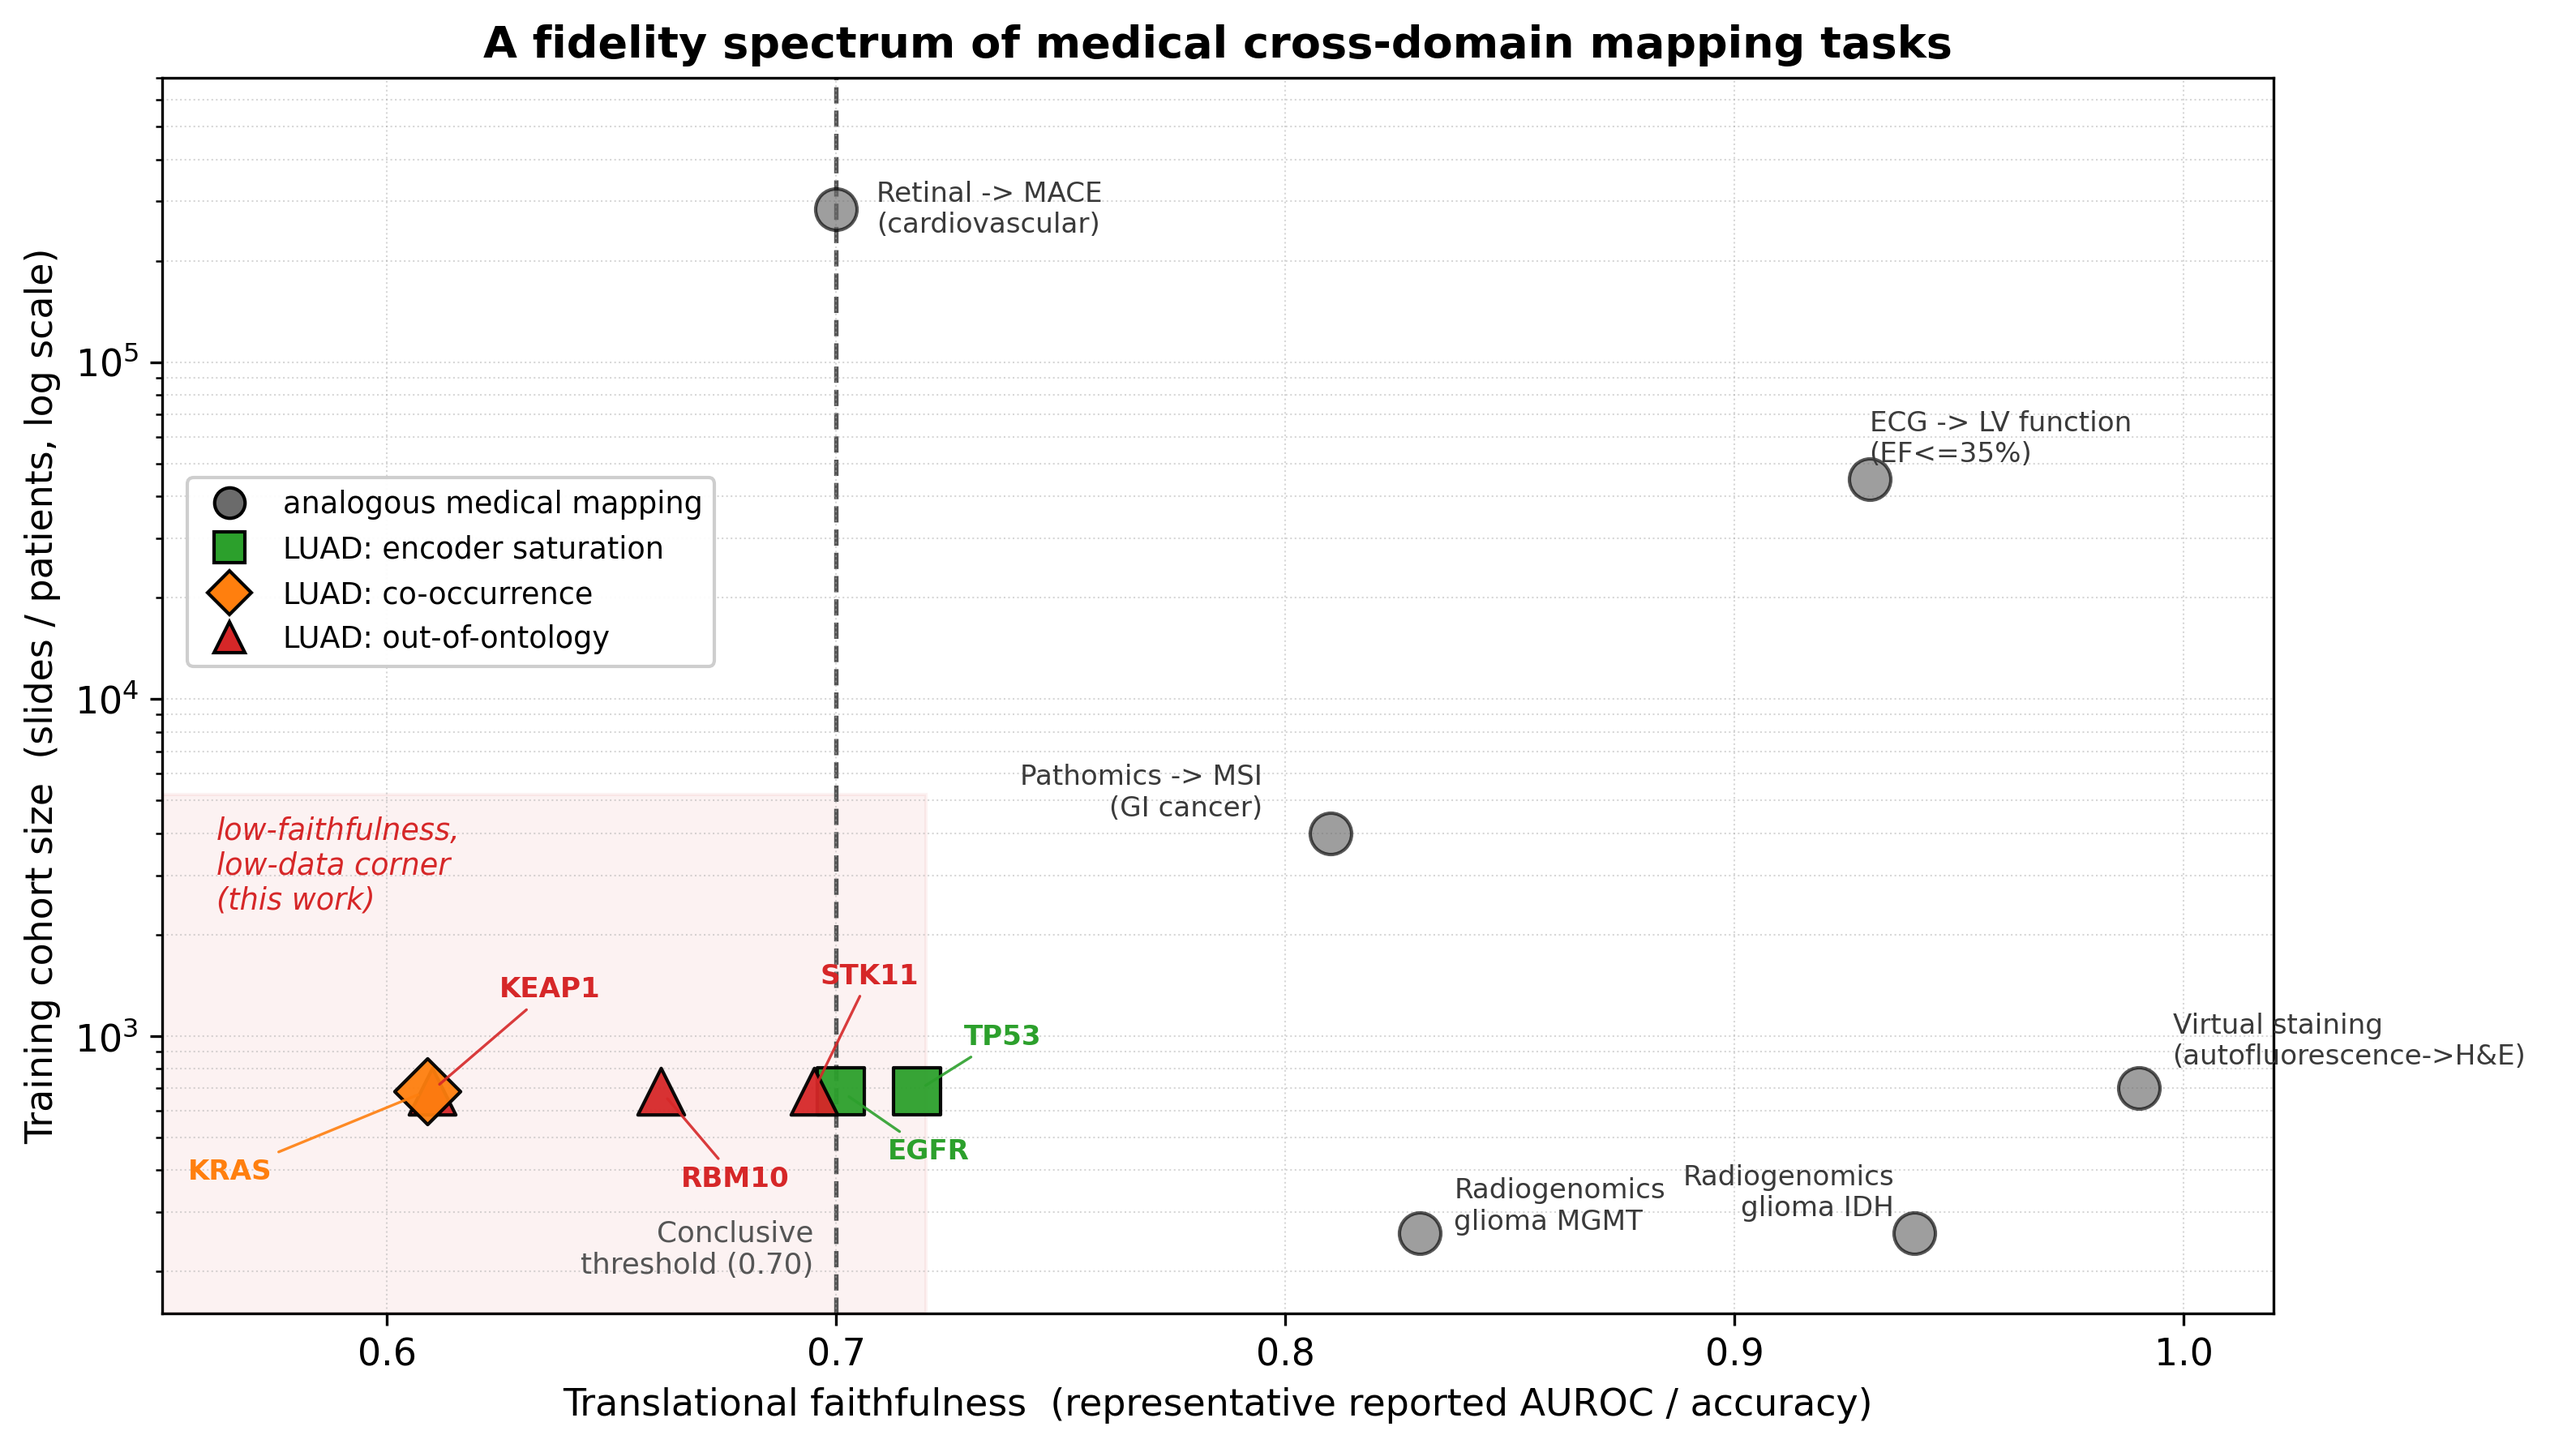
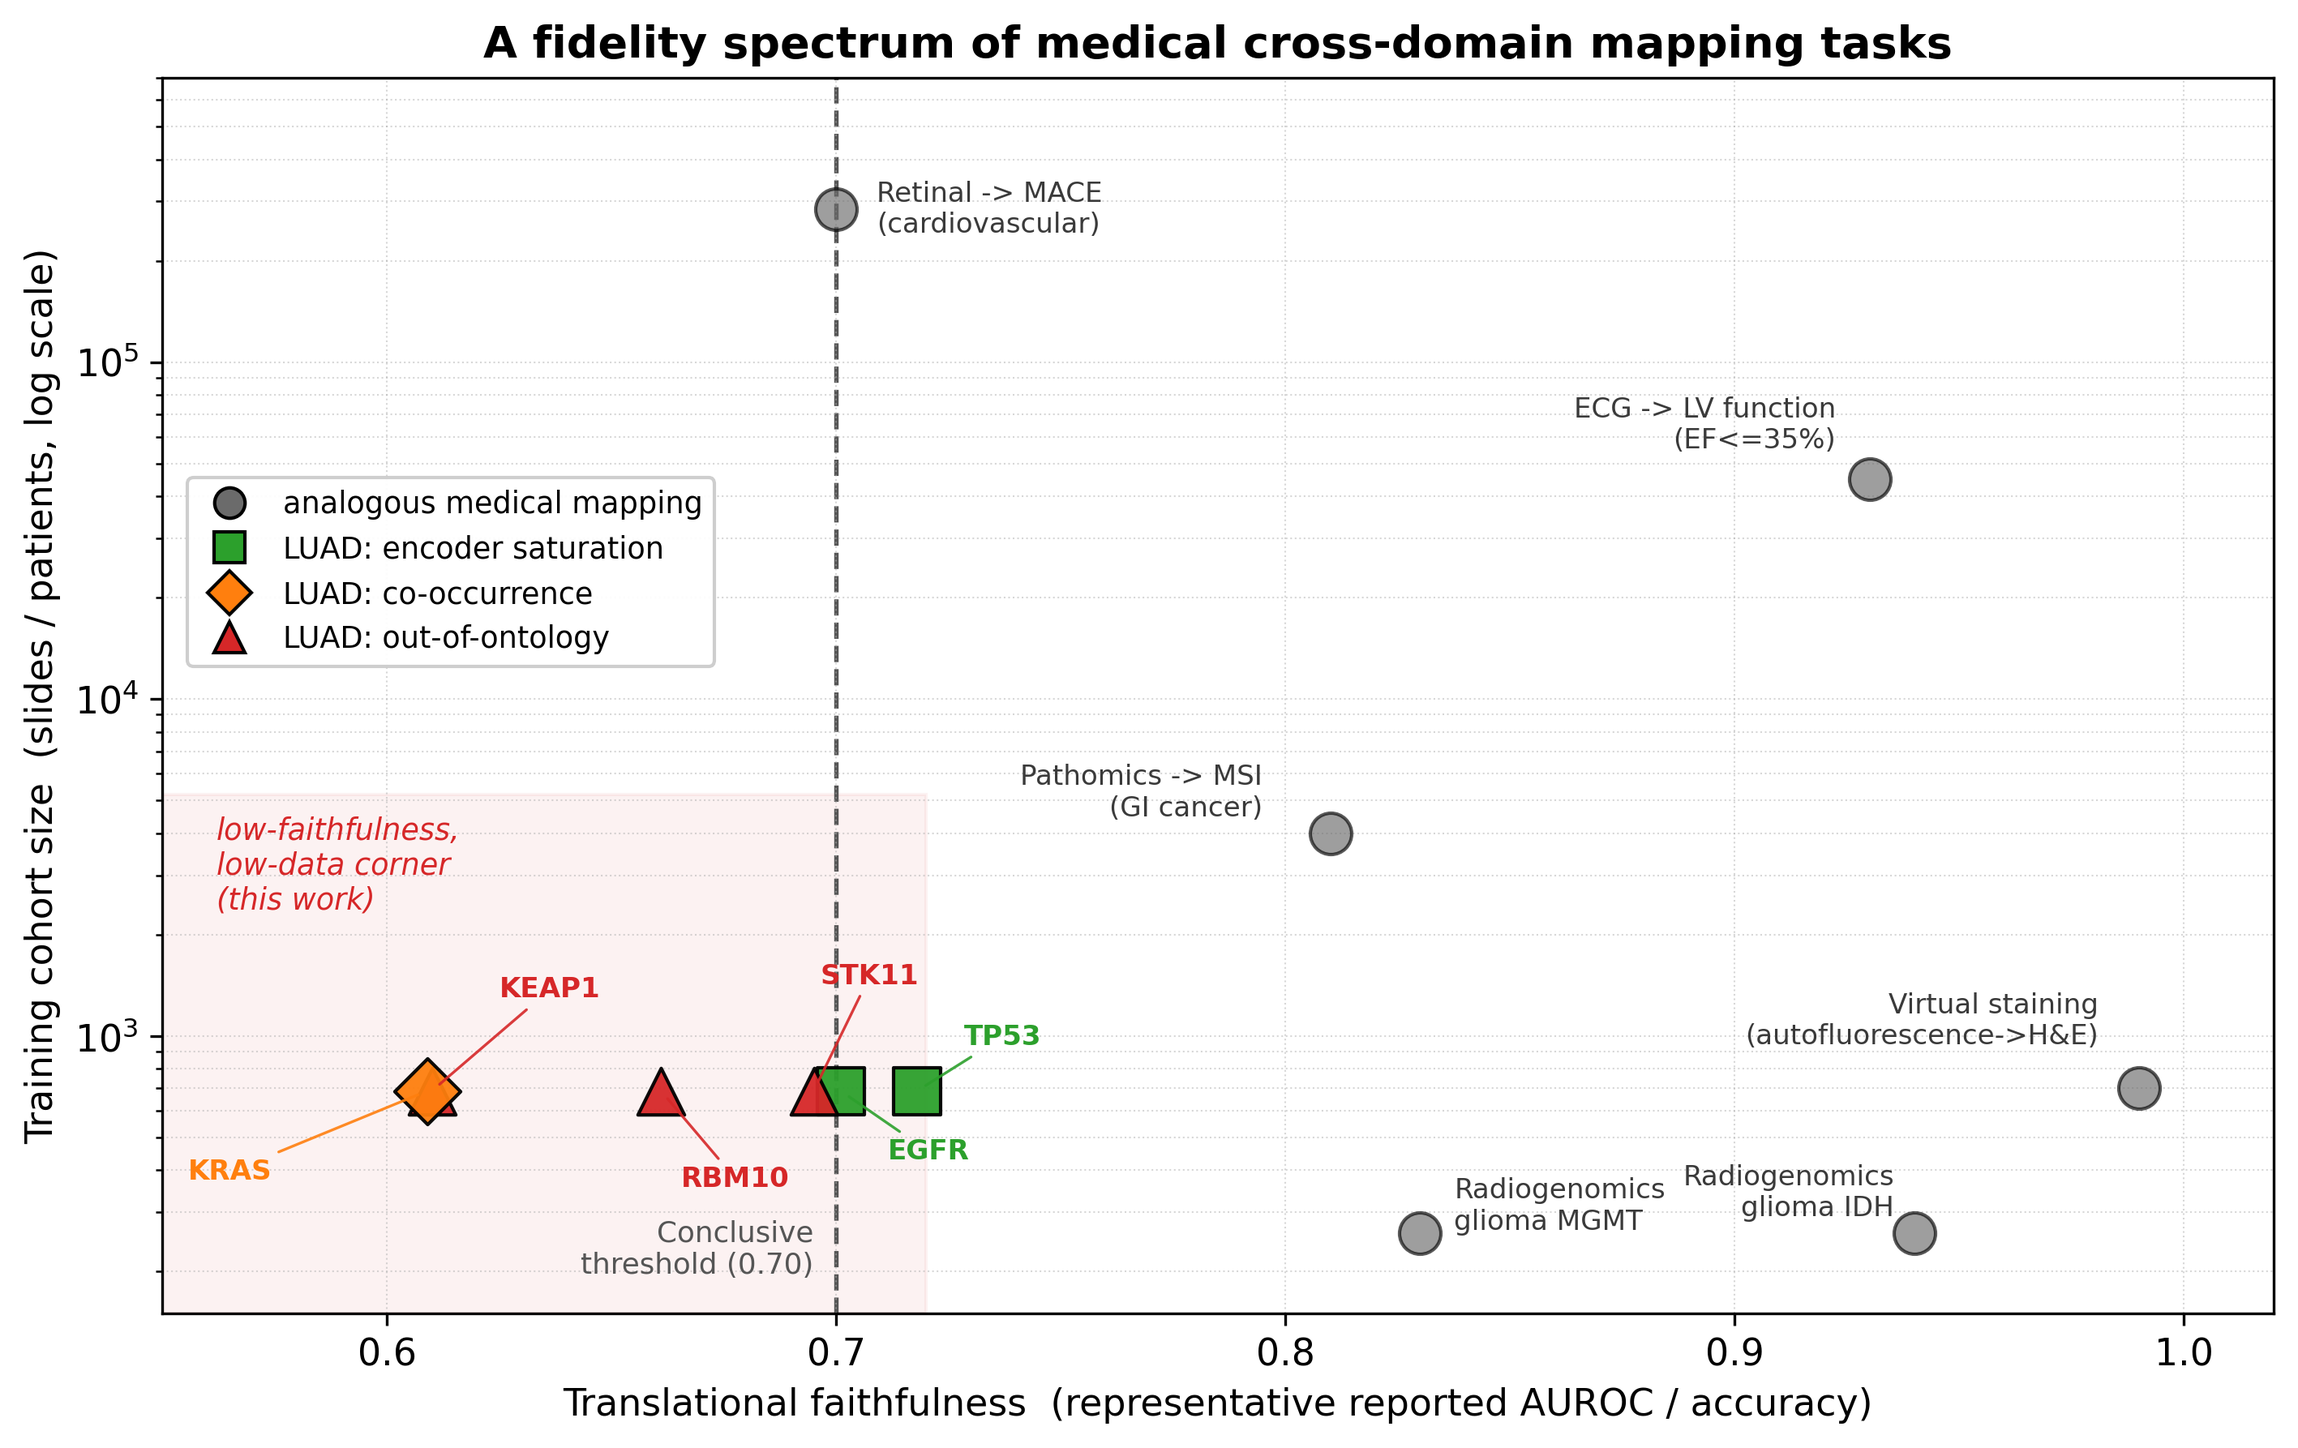
Fix fidelity-spectrum figure: keep Virtual staining / ECG labels inside plot bounds

diff --git a/figures/gen_domain_translation.py b/figures/gen_domain_translation.py
@@ -154,8 +154,8 @@ def fig_spectrum():
     # (label, representative AUROC/accuracy, training n, category)
     #   category: 'analogue' or one of the three LUAD regimes.
     pts = [
-        ("Virtual staining\n(autofluorescence->H&E)", 0.99, 700, "analogue", (10, 14)),
-        ("ECG -> LV function\n(EF<=35%)",             0.93, 44959, "analogue", (0, 12)),
+        ("Virtual staining\n(autofluorescence->H&E)", 0.99, 700, "analogue", (-12, 20)),
+        ("ECG -> LV function\n(EF<=35%)",             0.93, 44959, "analogue", (-10, 16)),
         ("Radiogenomics\nglioma IDH",                 0.94, 260, "analogue", (-6, 12)),
         ("Radiogenomics\nglioma MGMT",                0.83, 260, "analogue", (10, 8)),
         ("Pathomics -> MSI\n(GI cancer)",             0.81, 4000, "analogue", (-20, 12)),
